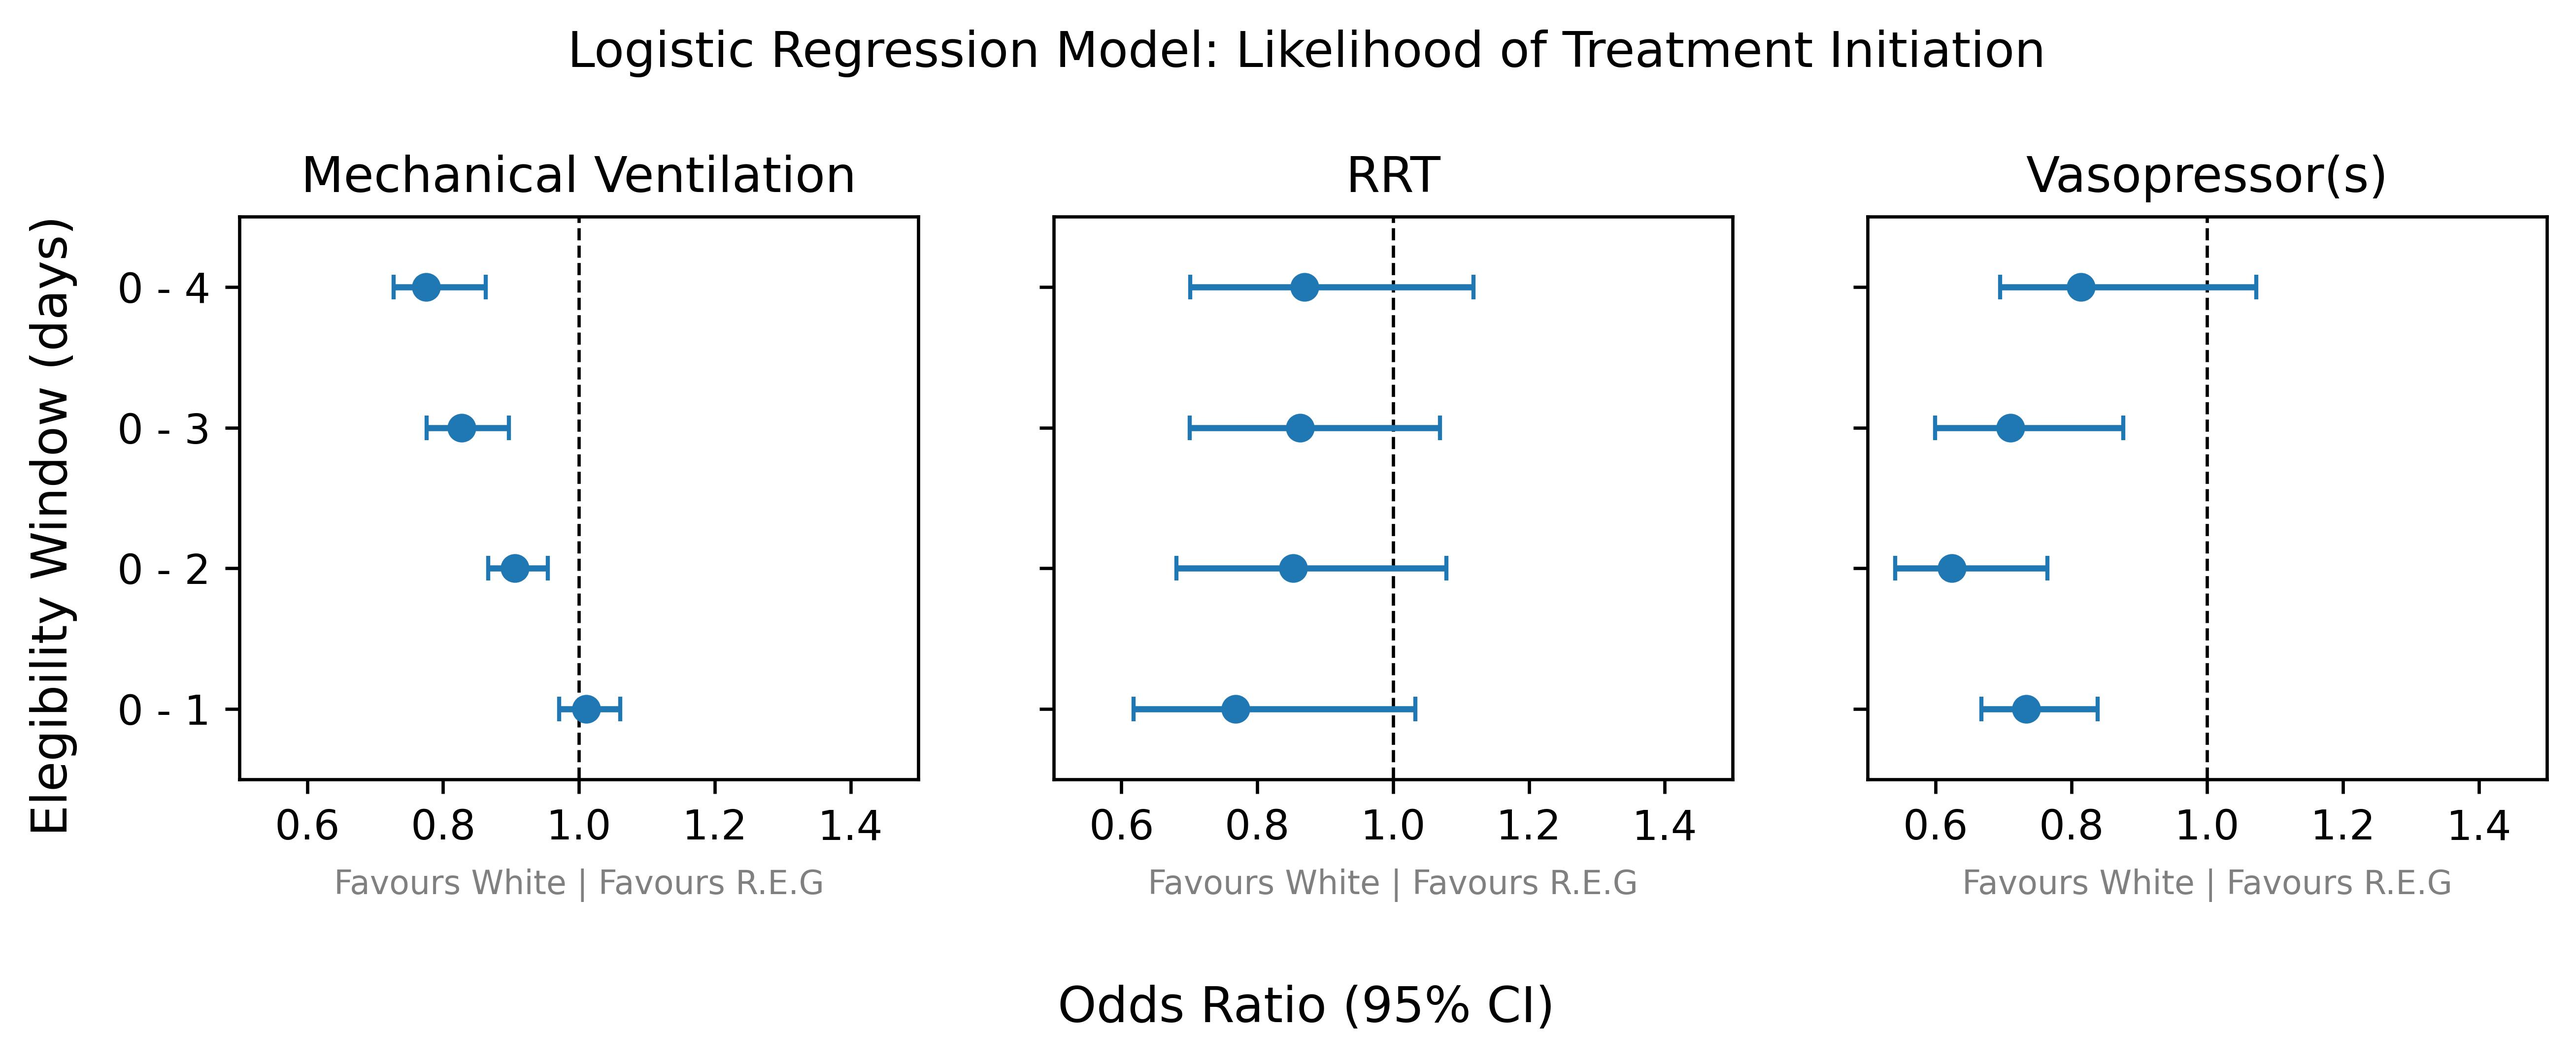
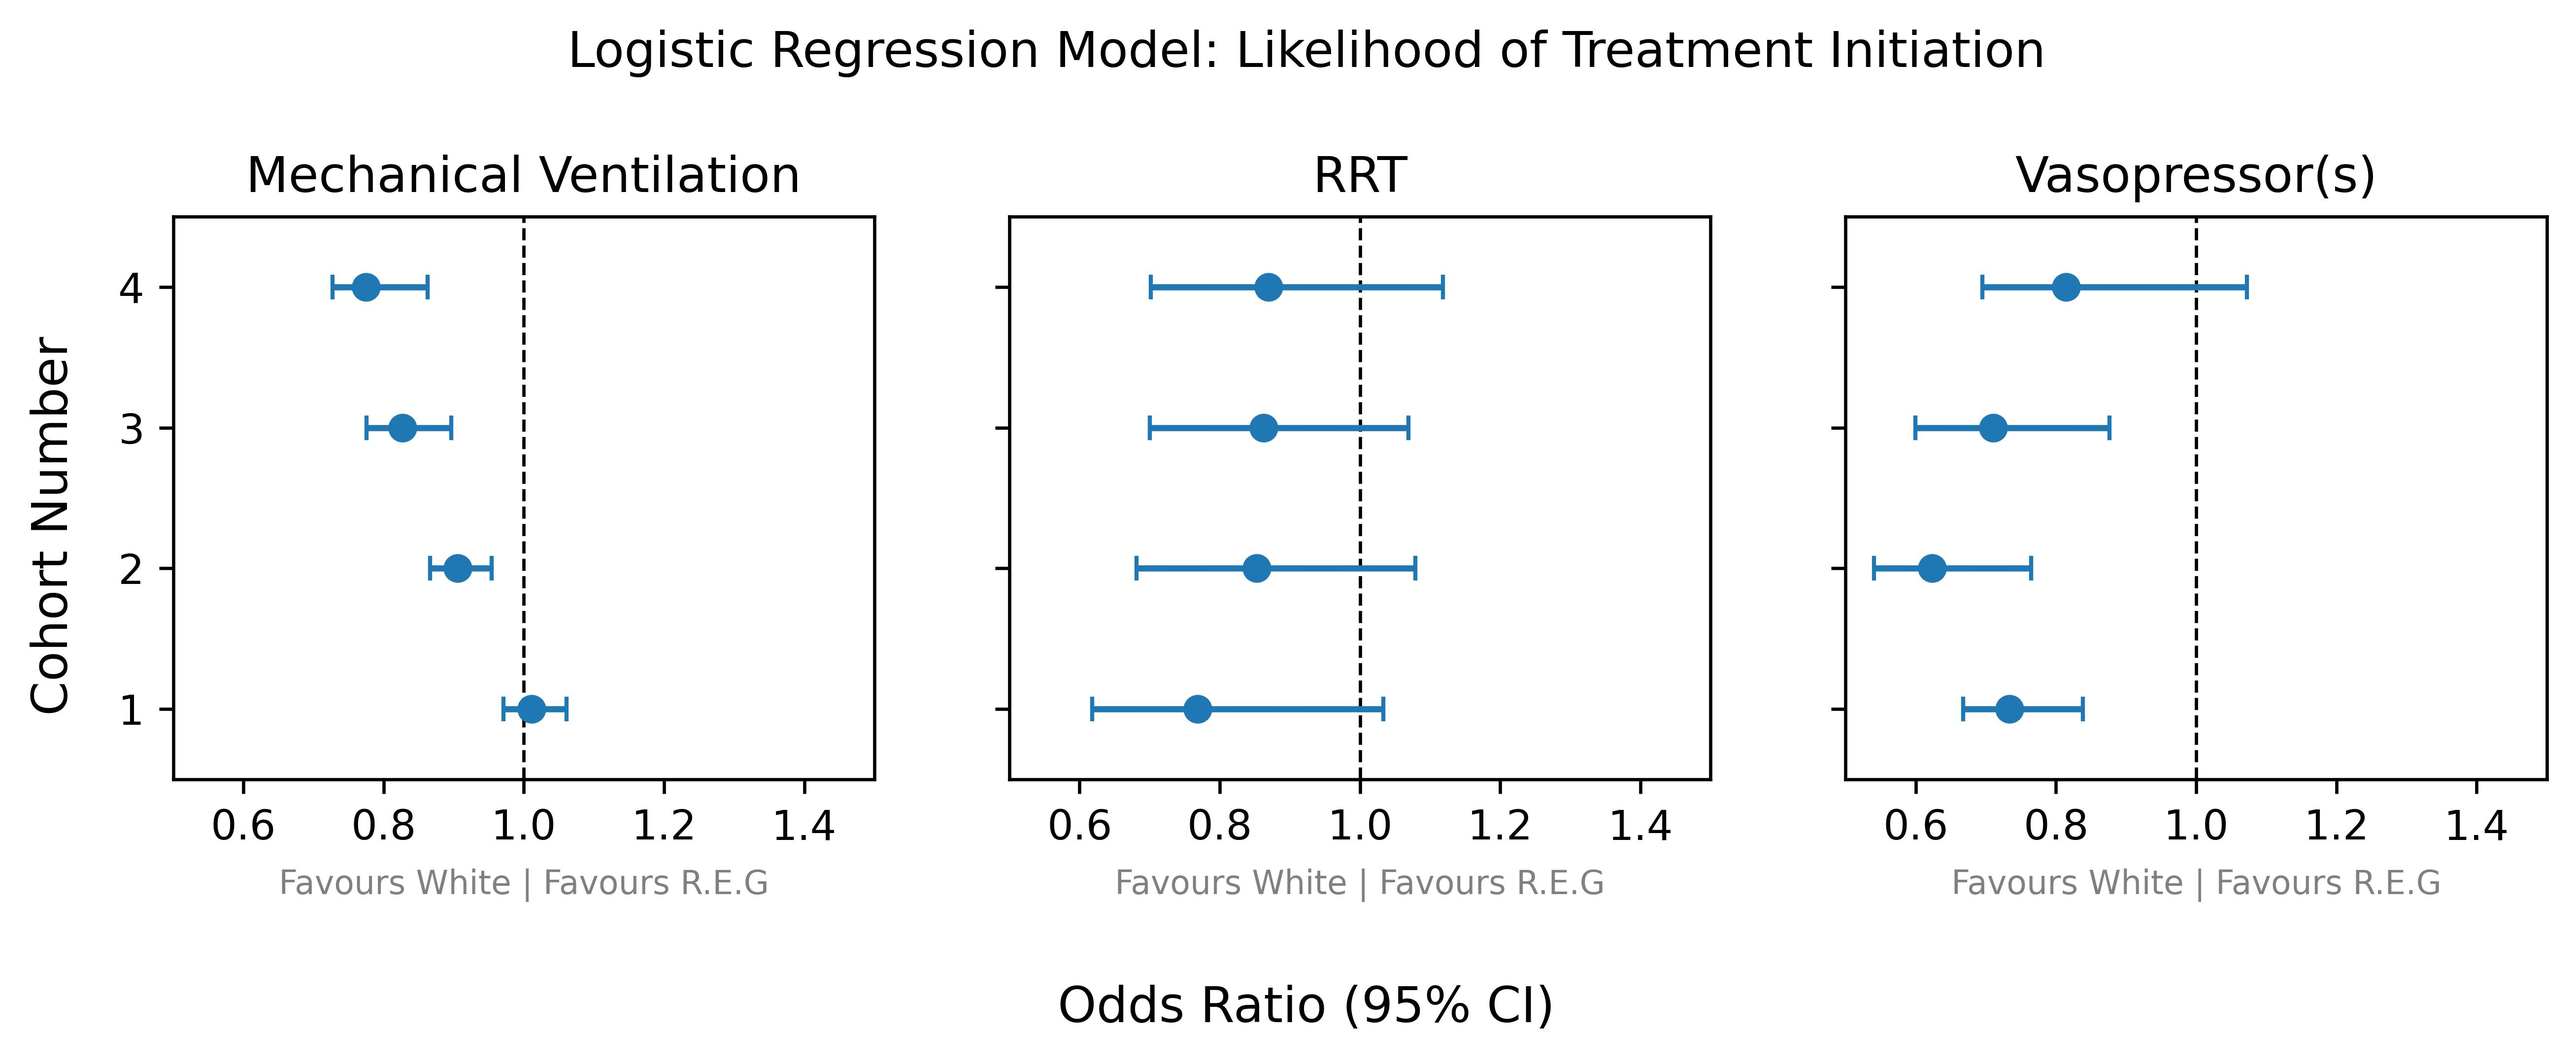
Tweak plots for manuscript - 'cohort number'

diff --git a/src/plots/all_races.py b/src/plots/all_races.py
@@ -58,7 +58,7 @@ def plot_results(filename, model_name):
         ax.set_xlim([.5, 1.5])
         # set yticks in string format
         ax.set_yticks([3,6,9,12])
-        ax.set_yticklabels(["0 - 1", "0 - 2", "0 - 3", "0 - 4"])
+        ax.set_yticklabels(["1", "2", "3", "4"])
         ax.set_xlabel("Favours White | Favours R.E.G",
                     fontsize=8, labelpad=5, color='gray')
         
@@ -74,15 +74,17 @@ def plot_results(filename, model_name):
     # add title to legend
 
     fig.supxlabel('Odds Ratio (95% CI)')
-    fig.supylabel('Elegibility Window (days)\n')
+    fig.supylabel('Cohort Number')
     plt.tight_layout()
 
     # Save the figure
     #fig.savefig(f"results/plots/{filename}.png", dpi=300, bbox_inches="tight")
     fig.savefig(f"results/plots/{filename}.jpeg", dpi=600, bbox_inches="tight")
 
-filenames = ["sens/logreg_cv_all_coh_races", "sens/xgb_cv_all_coh_races"]
-model_names = ["Logistic Regression", "XGBoost"]
+filenames = ["sens/logreg_cv_all_coh_races", "sens/xgb_cv_all_coh_races",
+             "logreg_cv_all_coh_races", "xgb_cv_all_coh_races"]
+model_names = ["Logistic Regression", "XGBoost",
+               "Logistic Regression", "XGBoost"]
 
 for f, m in zip(filenames, model_names):
     plot_results(f, m)

diff --git a/src/plots/white_nonwhite.py b/src/plots/white_nonwhite.py
@@ -44,13 +44,13 @@ def plot_results(filename, model_name):
         ax.set_xlim([0.5, 1.5])
         # set xticks in string format
         ax.set_yticks([1,2,3,4])
-        ax.set_yticklabels(["0 - 1", "0 - 2", "0 - 3", "0 - 4"])
+        ax.set_yticklabels(["1", "2", "3", "4"])
         ax.set_xlabel("Favours White | Favours R.E.G",
                     fontsize=8, labelpad=5, color='gray')
 
 
     fig.supxlabel('Odds Ratio (95% CI)')
-    fig.supylabel('Elegibility Window (days)')
+    fig.supylabel('Cohort Number')
     plt.tight_layout()
 
     # Save the figure
@@ -58,8 +58,10 @@ def plot_results(filename, model_name):
     fig.savefig(f"results/plots/{filename}.jpeg", dpi=600, bbox_inches="tight")
 
 
-filenames = ["sens/logreg_cv_all_coh", "sens/xgb_cv_all_coh"]
-model_names = ["Logistic Regression", "XGBoost"]
+filenames = ["sens/logreg_cv_all_coh", "sens/xgb_cv_all_coh",
+             "logreg_cv_all_coh", "xgb_cv_all_coh"]
+model_names = ["Logistic Regression", "XGBoost",
+               "Logistic Regression", "XGBoost"]
 
 for f, m in zip(filenames, model_names):
     plot_results(f, m)
